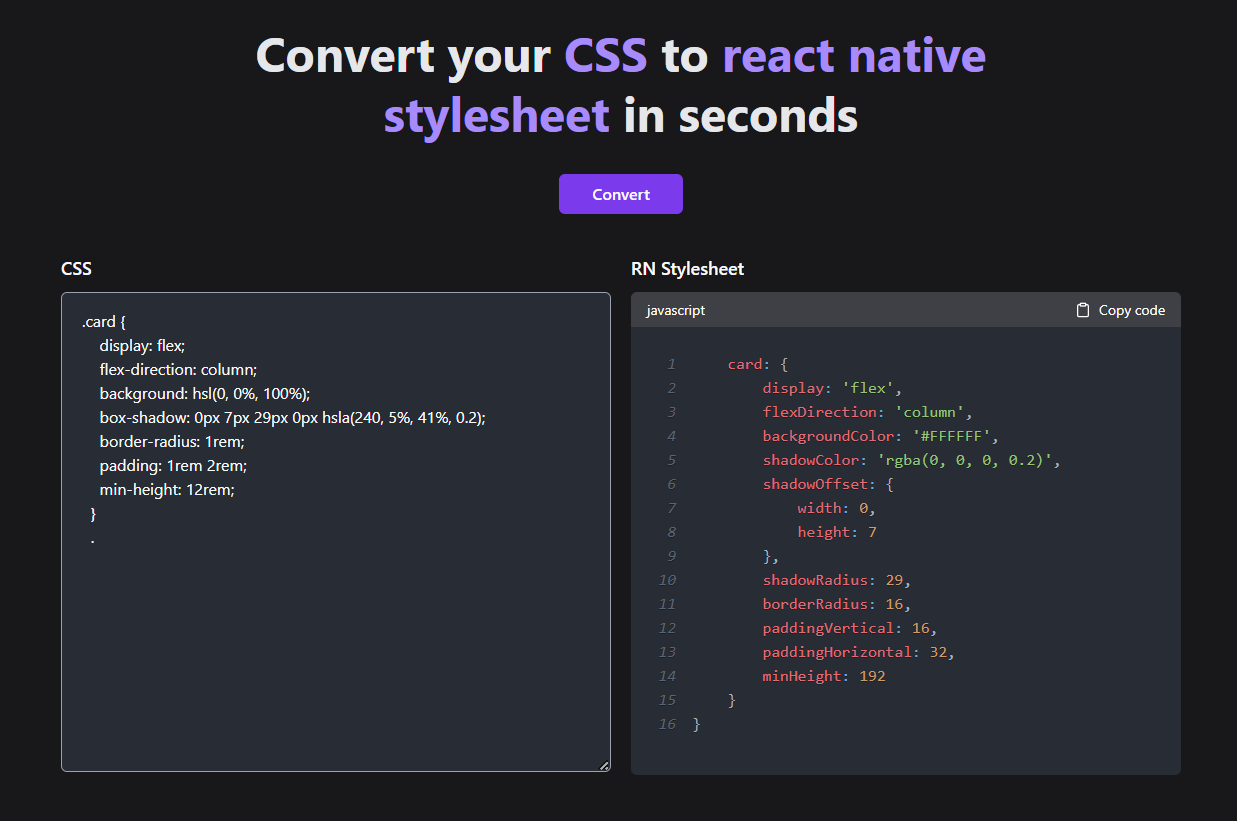
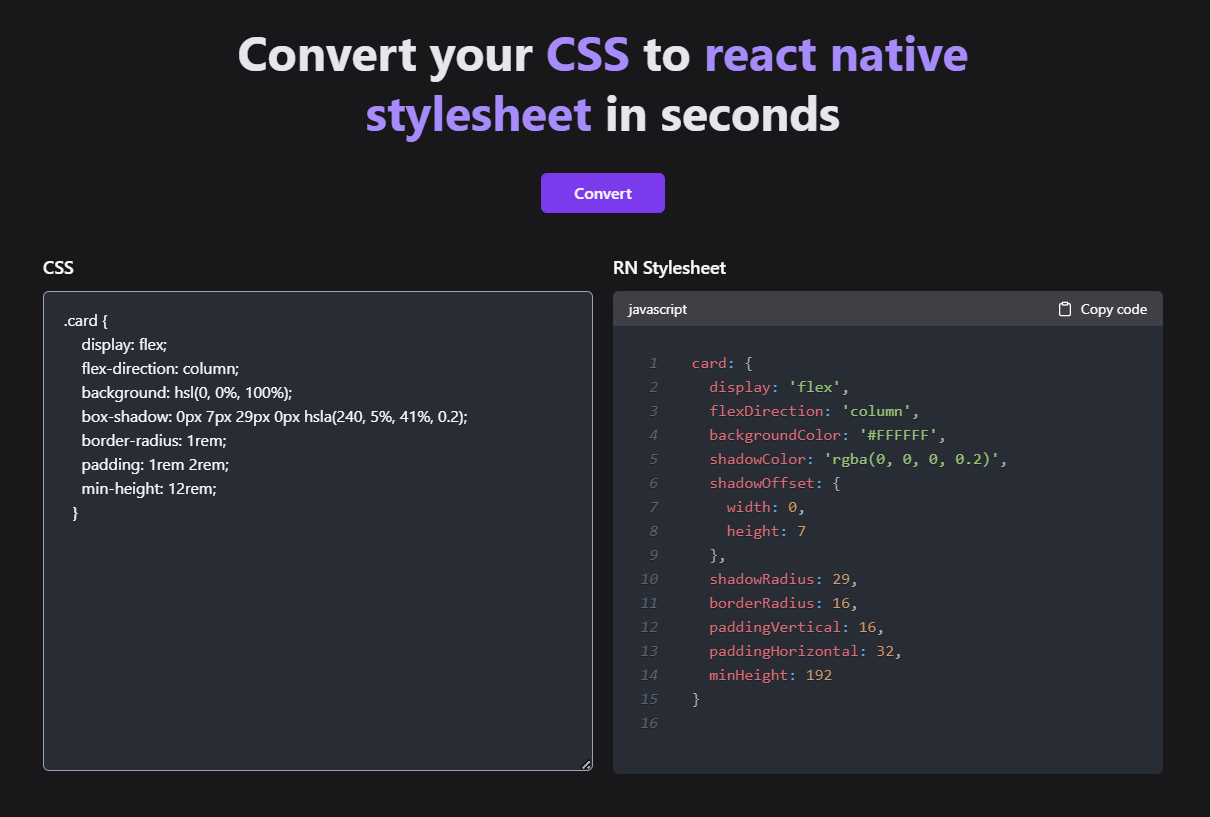
update og

diff --git a/src/pages/api/generate.ts b/src/pages/api/generate.ts
@@ -30,13 +30,14 @@ export default async function handler(req: ExtendedNextRequest) {
 
   const systemPrompt = `You are a CSS to react native stylesheet converter. You will be given some CSS code and you need to convert it to react native stylesheet. 
   You will convert all number-like values to numbers, and string-like to strings. You will automatically convert indirect css values to their React Native equivalents. You will find alternative for css values unsupported by React Native. 
-  Make sure to only display the converted code, no further explaination is needed.  Make sure to add a curly brace at the start of the stylesheet, and a curly brace at the end of the stylesheet. Do not add an extra curly brace at the end of the stylesheet.
+  Make sure to convert shorthand css properties to their longhand equivalent. Make sure to convert scss, less, sass, stylus etc. to css.
+  Make sure to only display the converted code, no further explaination is needed.  Make sure to add a curly brace at the start of the stylesheet, and a curly brace at the end of the converted react native stylesheet. Do not add an extra curly brace at the end of the stylesheet.
   For example:
-  - inputed css:
+  - Inputed css:
   font-size: 18px;
   line-height: 24px;
   color: red;
-  - outputed RN stylesheet:
+  - Outputed RN stylesheet:
   {
     fontSize: 18, 
     lineHeight: 24, 
@@ -46,14 +47,14 @@ export default async function handler(req: ExtendedNextRequest) {
   If class name is used, use the class name as the key and the css code as the value. Make sure to convert multi word class names to camelCase. 
   Do not add any other characters to the class name.
   For example:
-  - inputed css:
-  .cozyText {
+  - Iputed css:
+  .cozy-text {
     font-size: 18px;
     line-height: 24px;
     color: red;
     font-weight: medium;
   }
-  - outputed RN stylesheet:
+  - Outputed RN stylesheet:
   .cozyText: {
     fontSize: 18,
     lineHeight: 24,
@@ -92,7 +93,7 @@ export default async function handler(req: ExtendedNextRequest) {
       },
       { role: "user", content: prompt },
     ],
-    temperature: 0.7,
+    temperature: 0,
     top_p: 1,
     frequency_penalty: 0,
     presence_penalty: 0,

diff --git a/src/components/layouts/Meta.tsx b/src/components/layouts/Meta.tsx
@@ -10,24 +10,21 @@ type MetaProps = {
 };
 
 const Meta = ({
-  siteName = "Cronbase",
-  title = "Cronbase",
-  description = "Explaining and generating cron expressions for you",
-  image = "https://cronbase.vercel.app/api/og?title=Cronbase&description=Explaining%20and%20generating%20cron%20expressions%20for%20you",
-  keywords = "cron, cron expression, cron generator, cron explain, cronbase",
-  url = "https://cronbase.vercel.app/",
+  title = "Native CSS",
+  description = "Convert your CSS to React Native Stylesheet",
+  image = "https://nativecss.vercel.app/api/og?title=Native%20CSS&description=Convert%20your%20CSS%20to%20React%20Native%20Stylesheet",
+  keywords = "css, react native, stylesheet, tailwind, tailwindcss, tailwindcss.com, tailwindcss.com/docs, tailwindcss.com/docs/utility-first",
 }: MetaProps) => {
   return (
     <Head>
       <meta name="description" content={description} />
-      <meta property="og:site_name" content={siteName} />
+      <meta property="og:site_name" content={title} />
       <meta property="og:description" content={description} />
       <meta name="keywords" content={keywords} />
       <meta name="robots" content="index, follow" />
       <meta property="og:title" content={title} />
       <meta property="og:image" content={image} />
       <meta property="og:type" content="website" />
-      <meta property="og:url" content={url} />
       <meta name="twitter:card" content="summary_large_image" />
       <meta name="twitter:title" content={title} />
       <meta name="twitter:description" content={description} />

diff --git a/src/pages/api/og.tsx b/src/pages/api/og.tsx
@@ -30,20 +30,7 @@ export default function handler(req: NextRequest) {
           }}
         >
           <div tw="flex items-center text-3xl justify-center flex-col">
-            <svg
-              xmlns="http://www.w3.org/2000/svg"
-              width="124"
-              height="124"
-              viewBox="0 0 24 24"
-              fill="none"
-              stroke="white"
-              stroke-width="1"
-              stroke-linecap="round"
-              stroke-linejoin="round"
-            >
-              <circle cx="12" cy="12" r="10"></circle>
-              <polyline points="12 6 12 12 8 10"></polyline>
-            </svg>
+            <div tw="text-white font-bold">Native CSS</div>
           </div>
           <div tw="flex max-w-4xl items-center justify-center flex-col mt-10">
             <div tw="text-5xl font-bold whitespace-pre-wrap tracking-tight leading-tight text-white px-8">
@@ -61,7 +48,7 @@ export default function handler(req: NextRequest) {
       }
     );
   } catch (e) {
-    e instanceof Error && console.log(`${e.message as string}`);
+    e instanceof Error ? console.log(`${e.message as string}`) : console.log(e);
     return new Response(`Failed to generate the image`, {
       status: 500,
     });

diff --git a/src/pages/index.tsx b/src/pages/index.tsx
@@ -122,7 +122,9 @@ const Home: NextPageWithLayout = () => {
               <h2 className="text-base font-semibold text-gray-50 sm:text-lg">
                 RN Stylesheet
               </h2>
-              <CodeBlock code={generatedStyles.replace(/`/g, "")} />
+              <CodeBlock
+                code={generatedStyles.replace(/`/g, "").replace(/}$/g, "")}
+              />
             </div>
           </div>
         </div>
